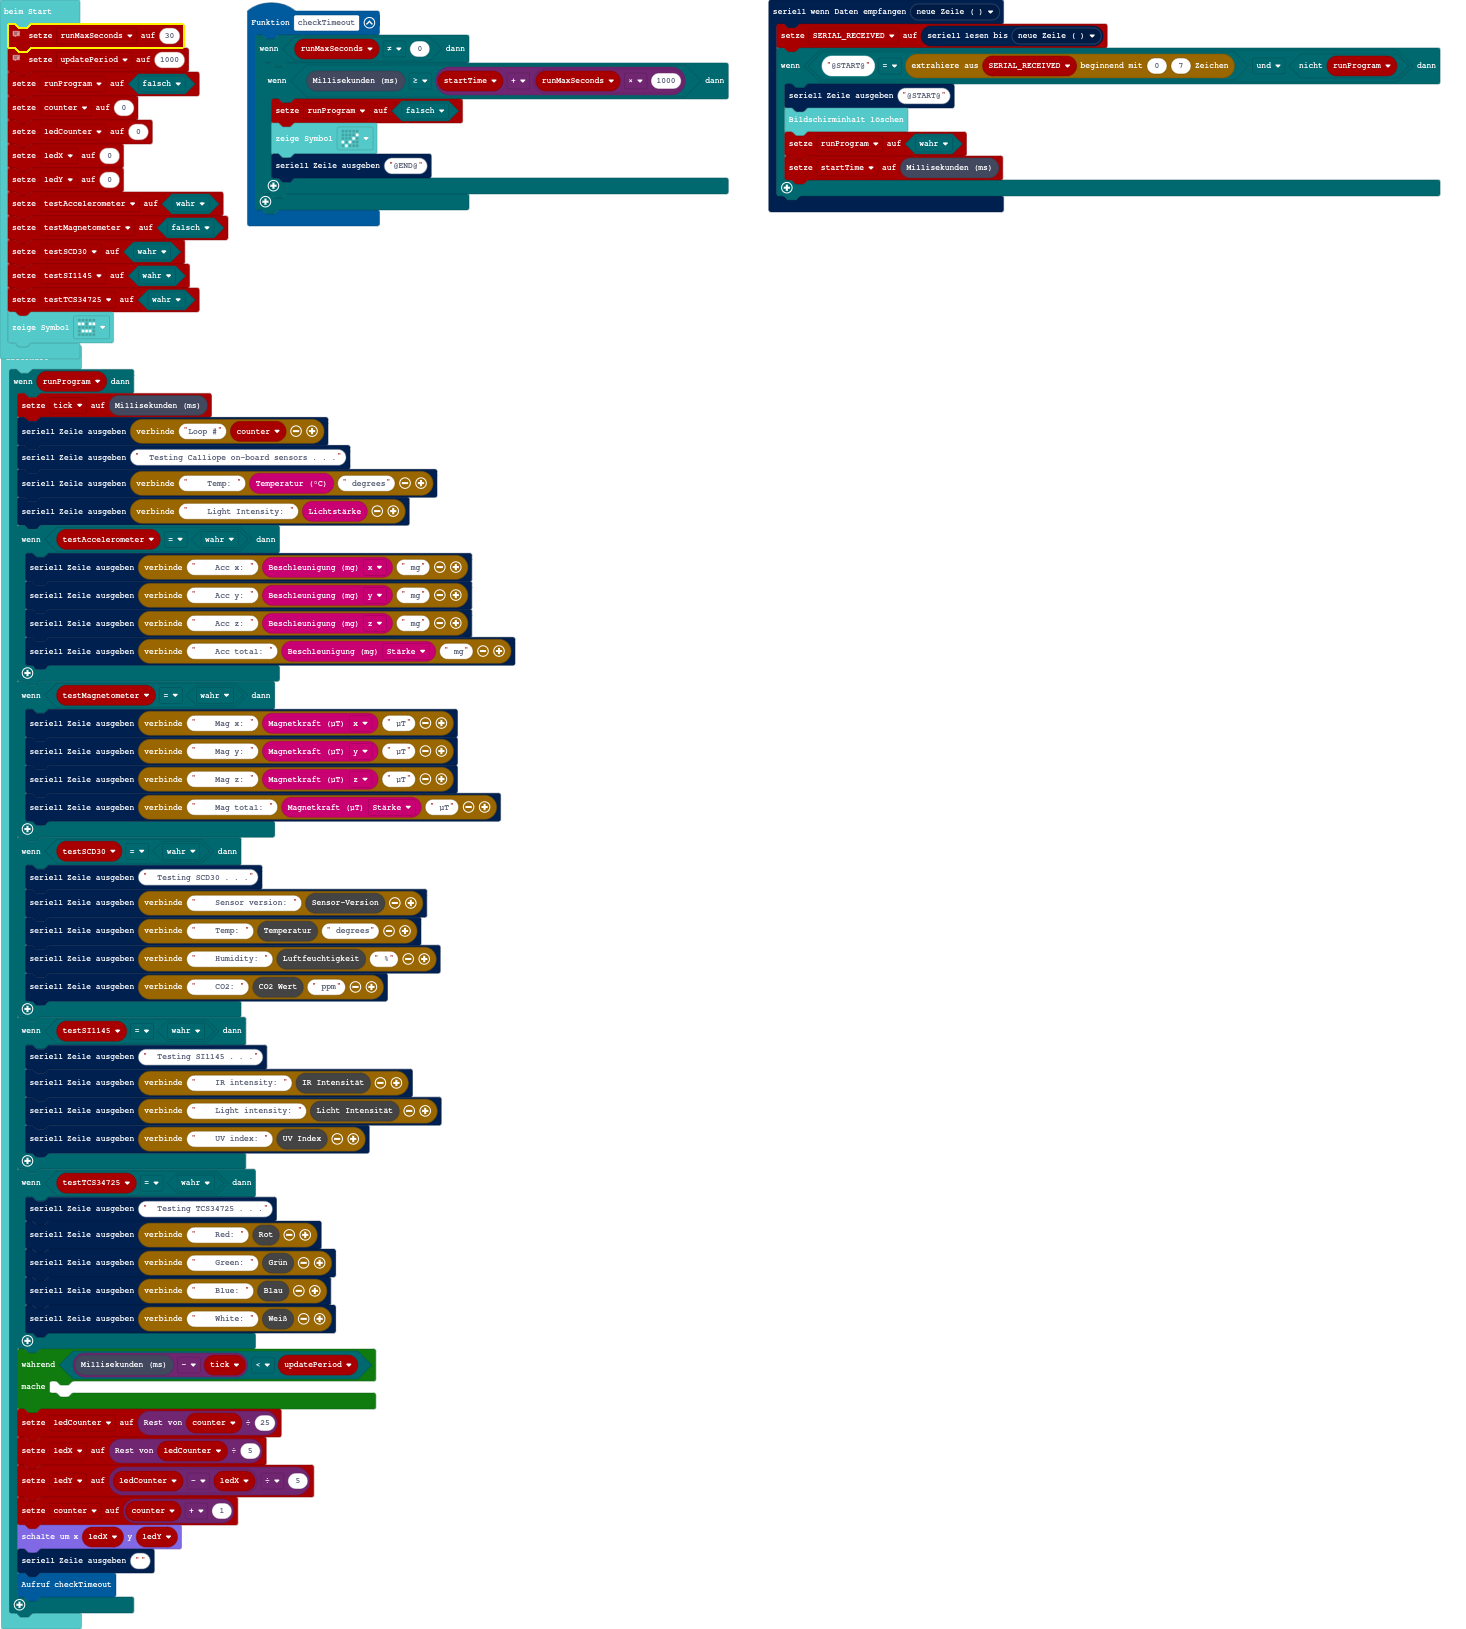
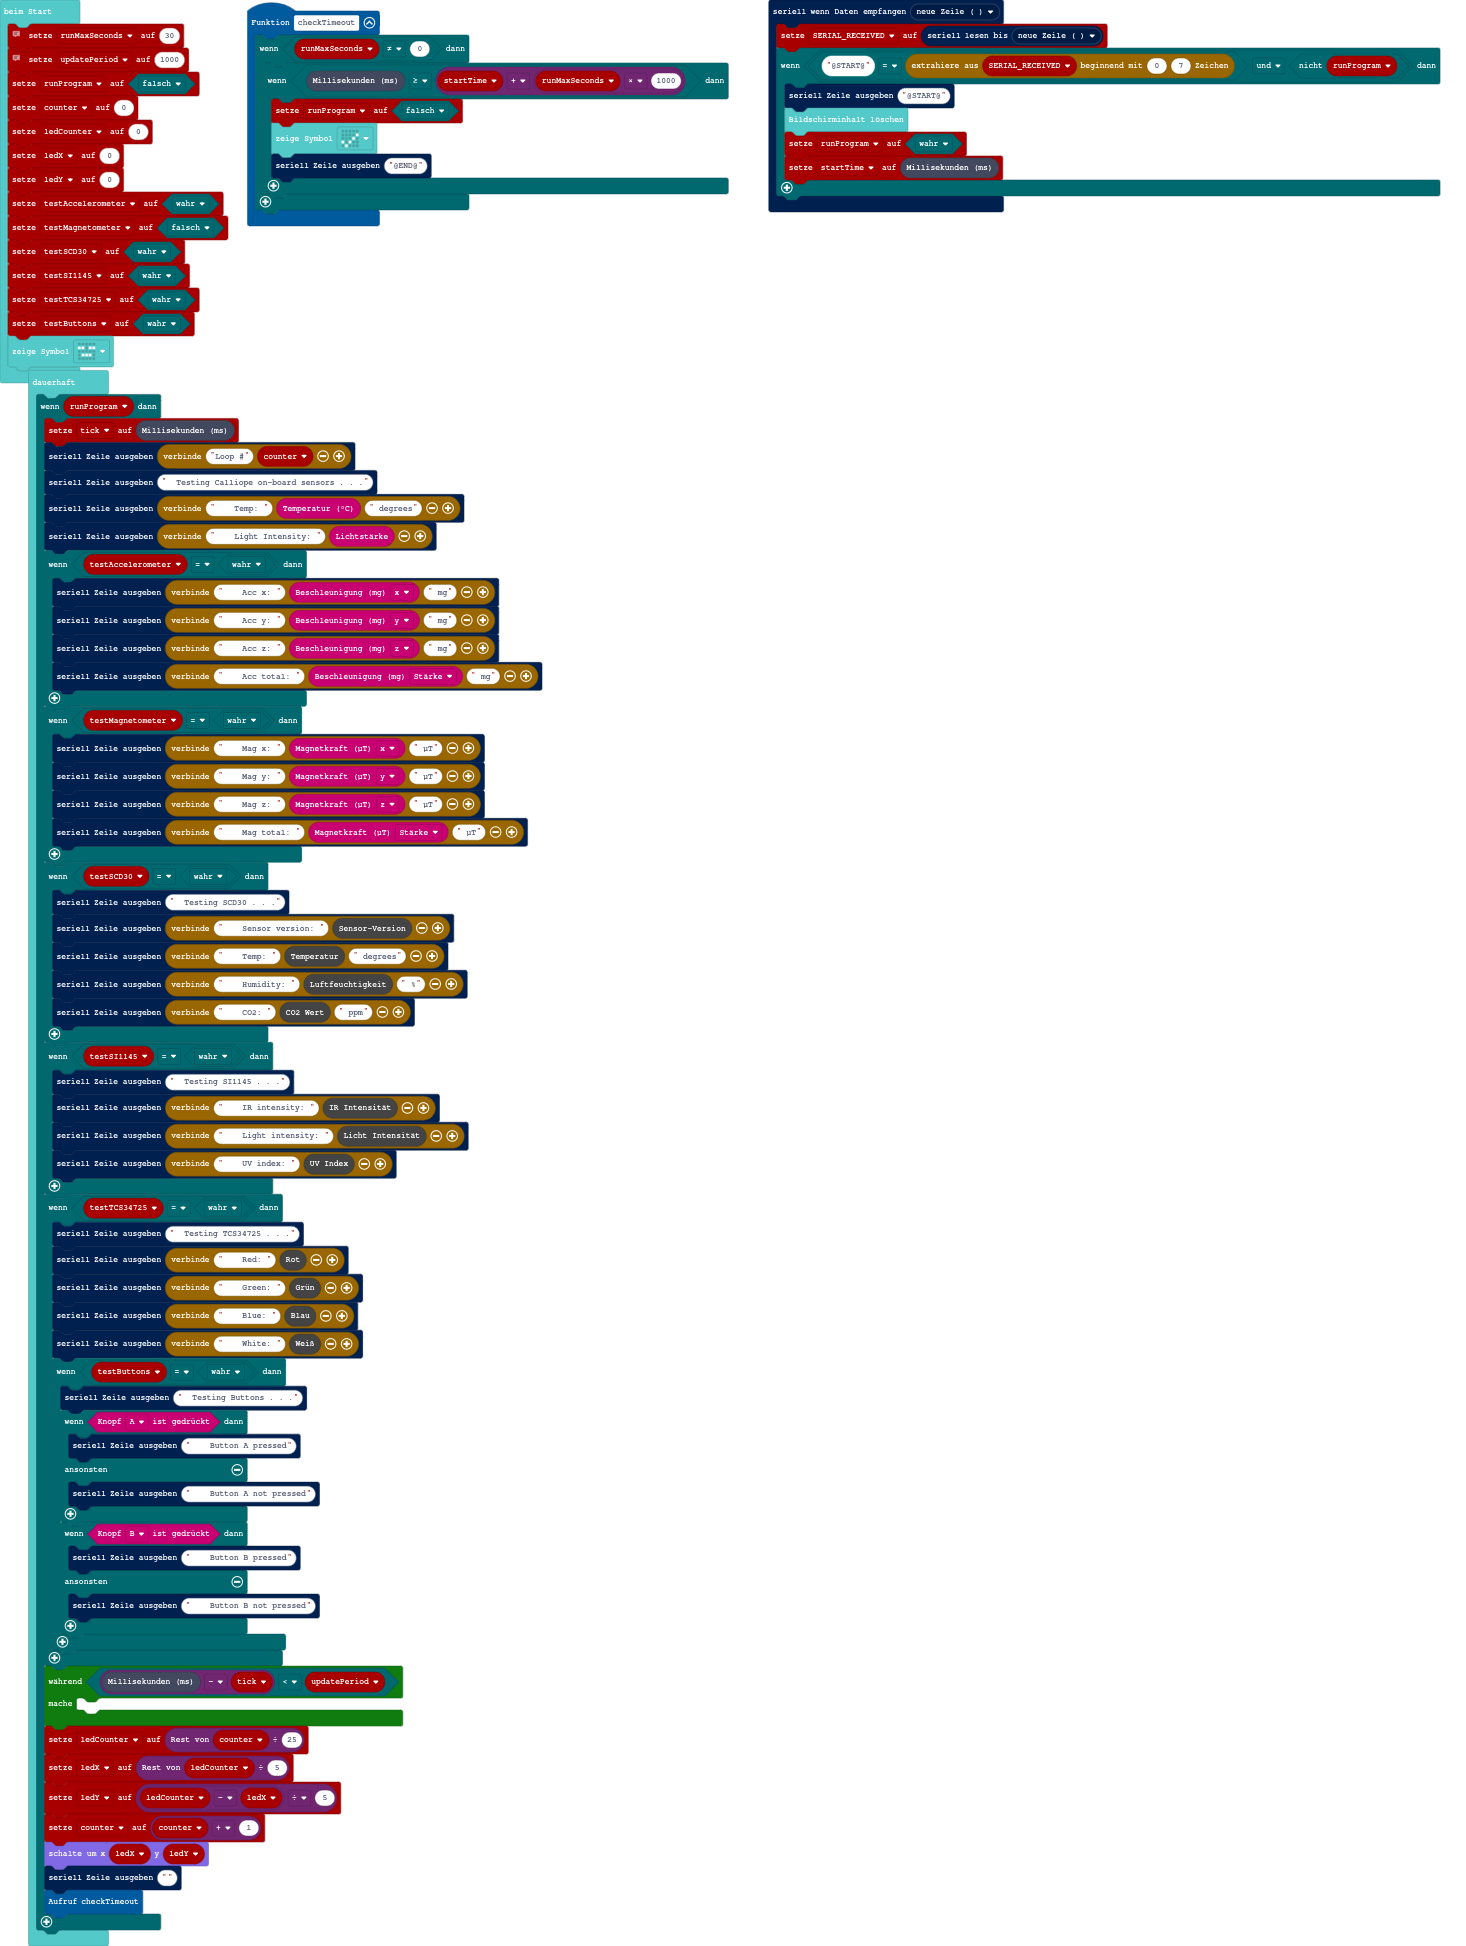
Implemented testing buttons (non-blocking)

Changed region(s): [[0.0, 0.0, 0.9823, 1.0]]

diff --git a/main.ts b/main.ts
@@ -35,6 +35,7 @@ let testMagnetometer = false
 let testSCD30 = true
 let testSI1145 = true
 let testTCS34725 = true
+let testButtons = true
 basic.showIcon(IconNames.Asleep)
 basic.forever(function () {
     if (runProgram) {
@@ -74,6 +75,19 @@ basic.forever(function () {
             serial.writeLine("    Green: " + TCS3414.readGreen())
             serial.writeLine("    Blue: " + TCS3414.readBlue())
             serial.writeLine("    White: " + TCS3414.readClear())
+            if (testButtons == true) {
+                serial.writeLine("  Testing Buttons . . .")
+                if (input.buttonIsPressed(Button.A)) {
+                    serial.writeLine("    Button A pressed")
+                } else {
+                    serial.writeLine("    Button A not pressed")
+                }
+                if (input.buttonIsPressed(Button.B)) {
+                    serial.writeLine("    Button B pressed")
+                } else {
+                    serial.writeLine("    Button B not pressed")
+                }
+            }
         }
         while (control.millis() - tick < updatePeriod) {
         	
